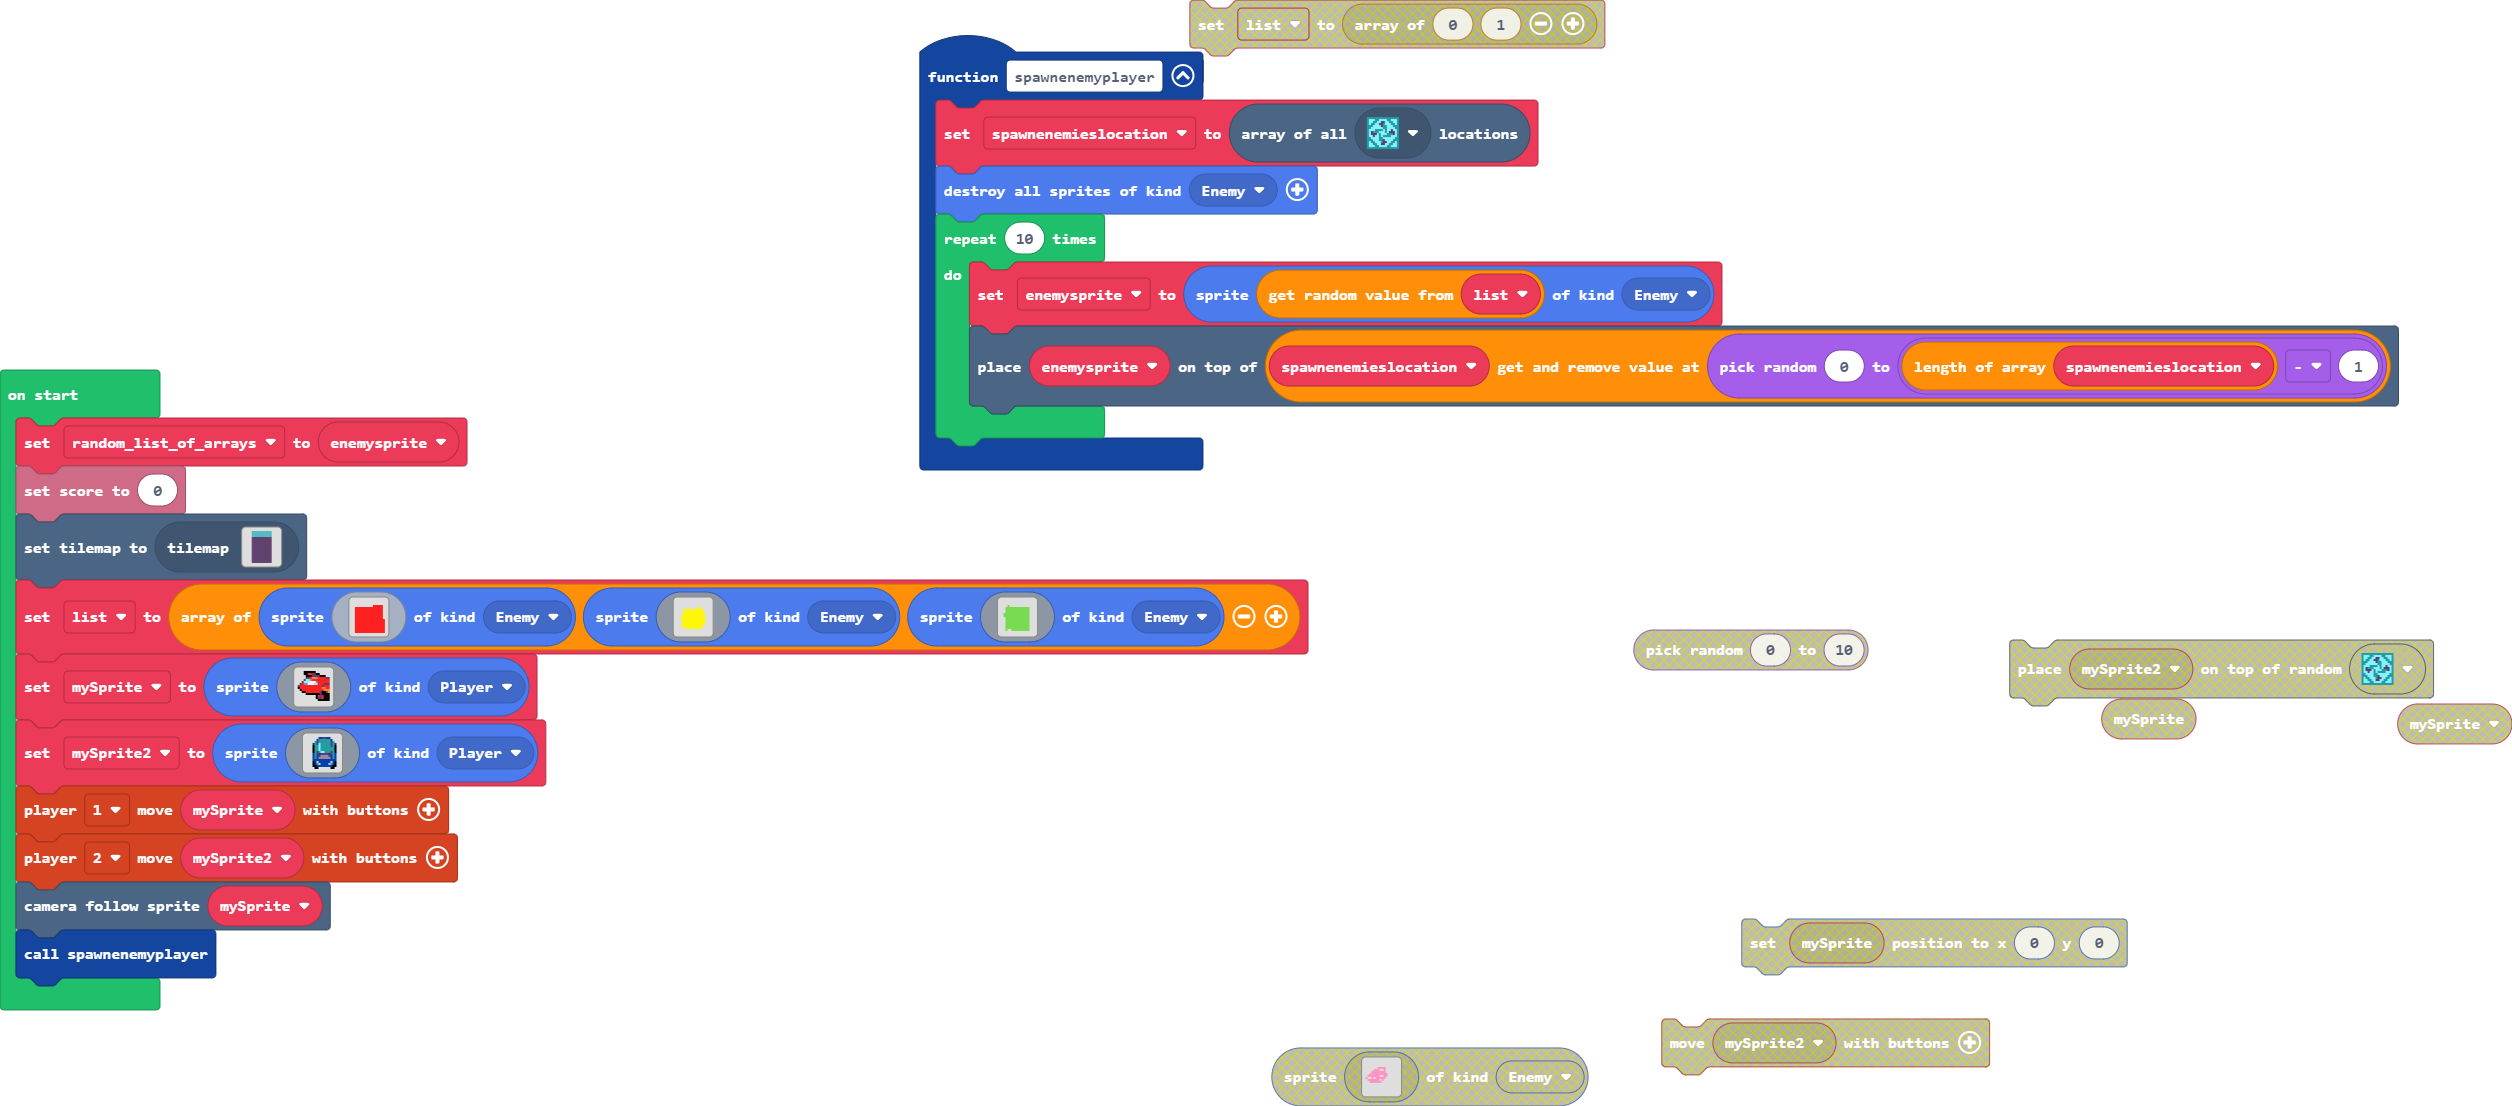
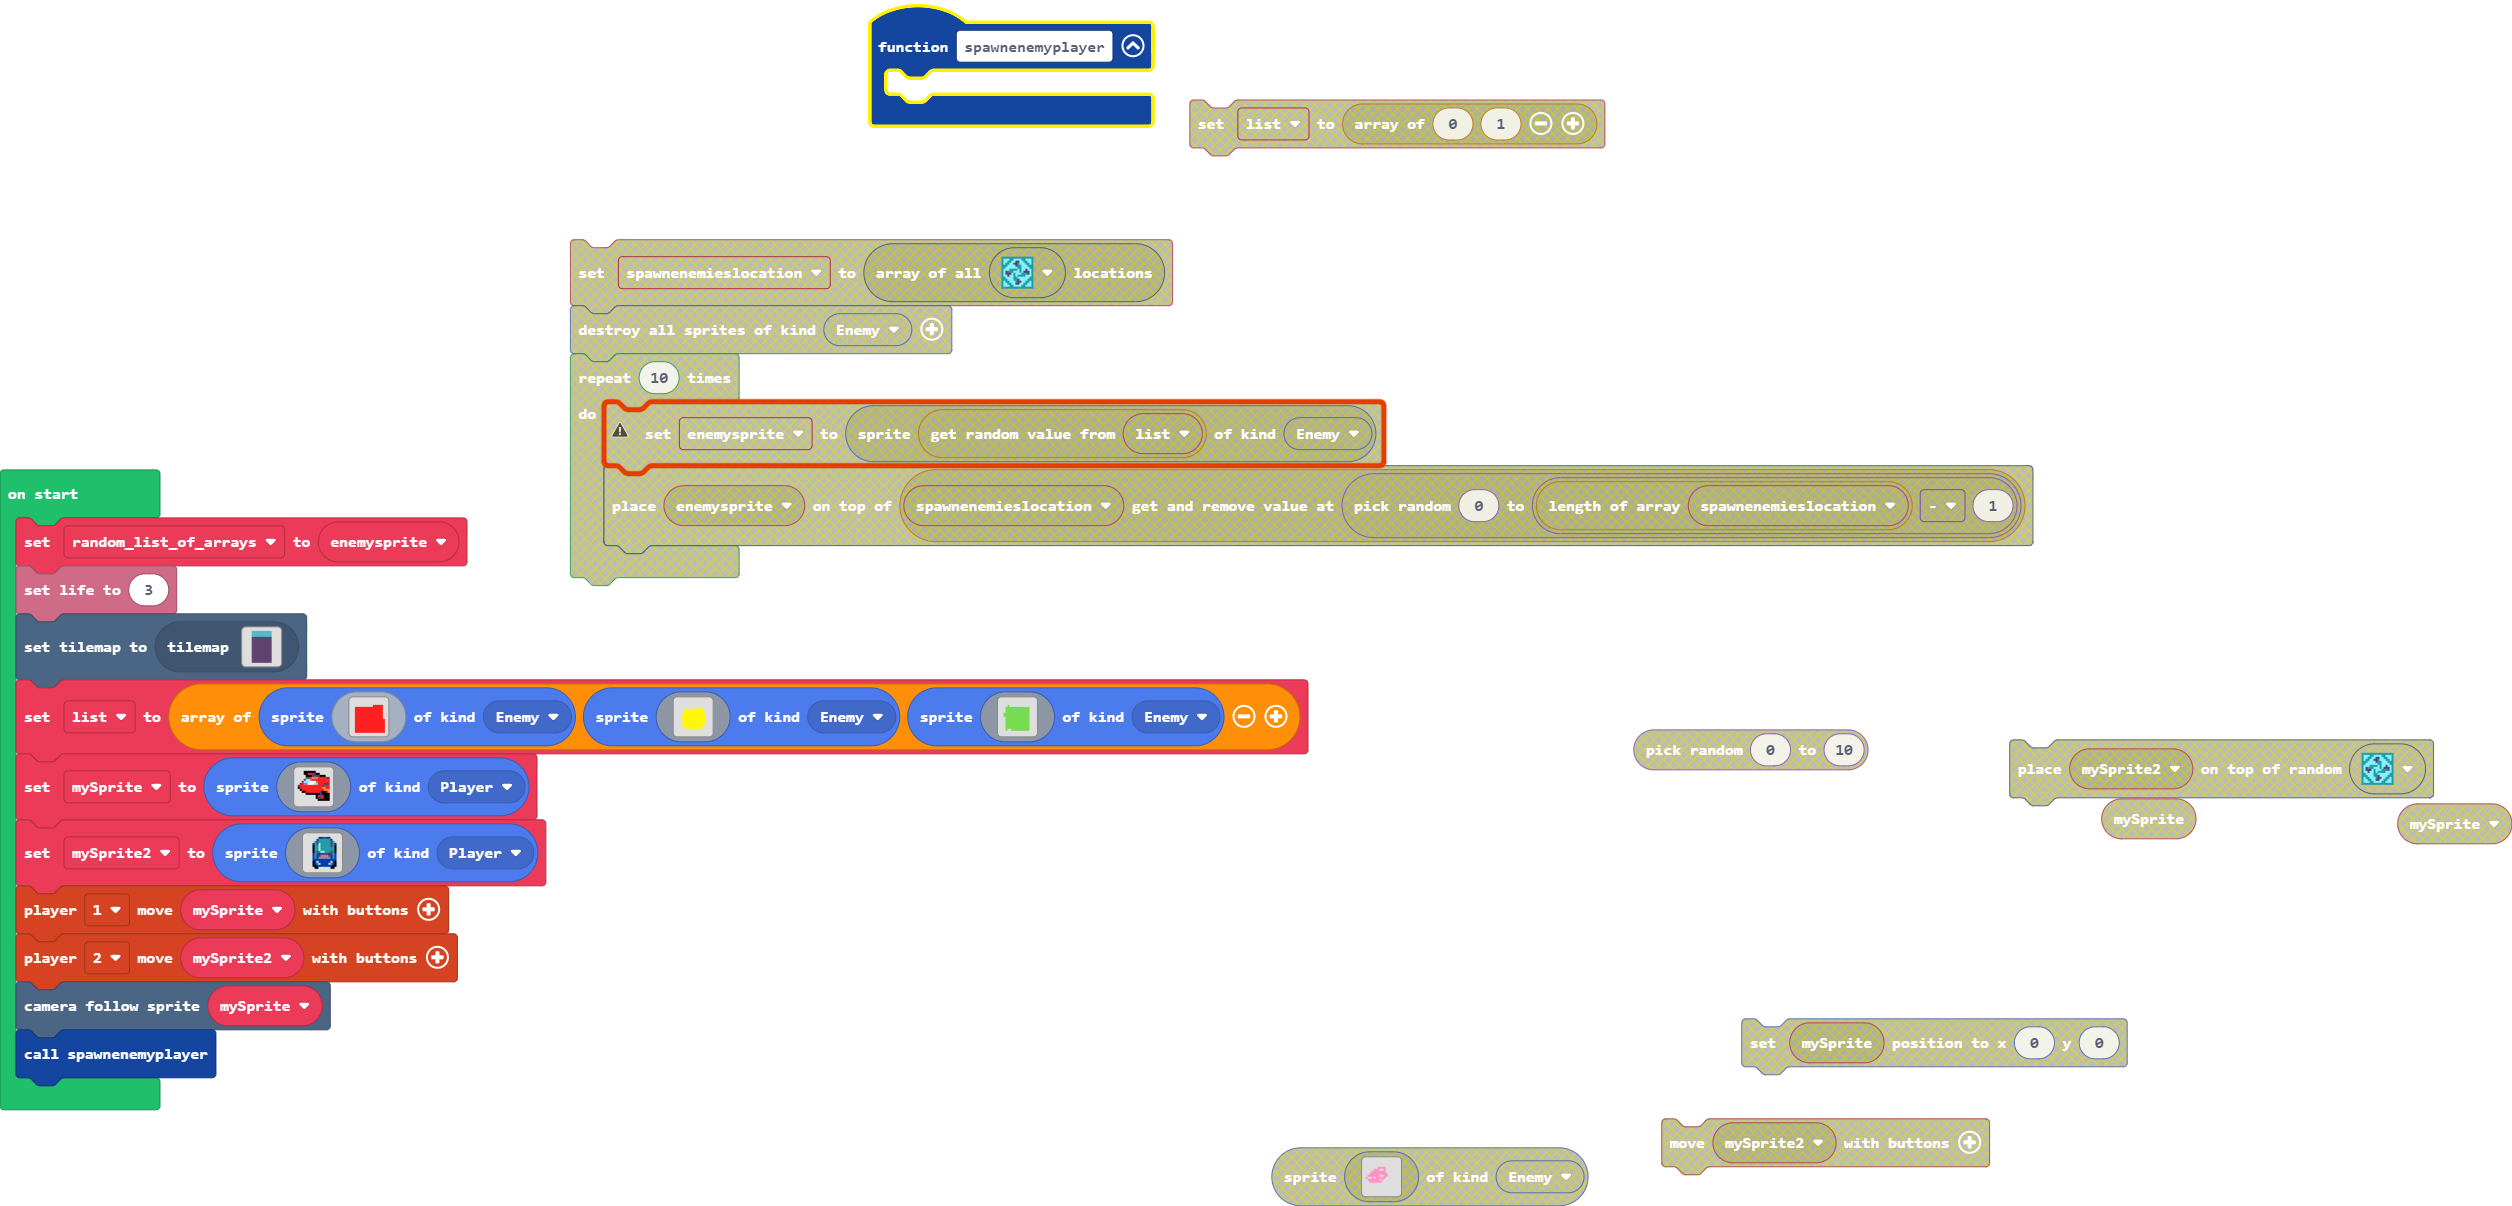
remove

diff --git a/tilemap.g.ts b/tilemap.g.ts
@@ -47,6 +47,25 @@ namespace myTiles {
 . . . . . . . . . . 
 . . . . . . . . . . 
 `, [myTiles.transparency16,sprites.dungeon.darkGroundWest,sprites.dungeon.darkGroundSouth,sprites.dungeon.darkGroundSouthWest0,sprites.dungeon.darkGroundCenter,sprites.dungeon.darkGroundEast,sprites.dungeon.darkGroundSouthEast0,sprites.dungeon.collectibleInsignia], TileScale.Sixteen);
+            case "level3":
+            case "level3":return tiles.createTilemap(hex`1000100000000000000000000000000000000000000000000000000000000000000000000000000000000000000000000000000000000000000000000000000000000000000000000000000000000000000000000000000000000000000000000000000000000000000000000000000000000000000000000000000000000000000000000000000000000000000000000000000000000000000000000000000000000000000000000000000000000000000000000000000000000000000000000000000000000000000000000000000000000000000000000000000000000000000000000000000000000000000000000000000000000000000000000000000000000000`, img`
+. . . . . . . . . . . . . . . . 
+. . . . . . . . . . . . . . . . 
+. . . . . . . . . . . . . . . . 
+. . . . . . . . . . . . . . . . 
+. . . . . . . . . . . . . . . . 
+. . . . . . . . . . . . . . . . 
+. . . . . . . . . . . . . . . . 
+. . . . . . . . . . . . . . . . 
+. . . . . . . . . . . . . . . . 
+. . . . . . . . . . . . . . . . 
+. . . . . . . . . . . . . . . . 
+. . . . . . . . . . . . . . . . 
+. . . . . . . . . . . . . . . . 
+. . . . . . . . . . . . . . . . 
+. . . . . . . . . . . . . . . . 
+. . . . . . . . . . . . . . . . 
+`, [myTiles.transparency16], TileScale.Sixteen);
         }
         return null;
     })

diff --git a/main.ts b/main.ts
@@ -1,18 +1,11 @@
 function spawnenemyplayer () {
-    spawnenemieslocation = tiles.getTilesByType(sprites.dungeon.collectibleInsignia)
-    sprites.destroyAllSpritesOfKind(SpriteKind.Enemy)
-    for (let index = 0; index < 10; index++) {
-        enemysprite = sprites.create(list._pickRandom(), SpriteKind.Enemy)
-        tiles.placeOnTile(enemysprite, spawnenemieslocation.removeAt(randint(0, spawnenemieslocation.length - 1)))
-    }
+	
 }
-let spawnenemieslocation: tiles.Location[] = []
-let list: Sprite[] = []
-let enemysprite: Sprite = null
+let enemysprite = 0
 let random_list_of_arrays = enemysprite
-info.setScore(0)
+info.setLife(3)
 tiles.setCurrentTilemap(tilemap`level2`)
-list = [sprites.create(img`
+let list = [sprites.create(img`
     . . . . . . . . . . . . . . . . 
     . . . . . . . . . . . . . . . . 
     . . . . . . . . . . 2 2 2 2 2 . 
